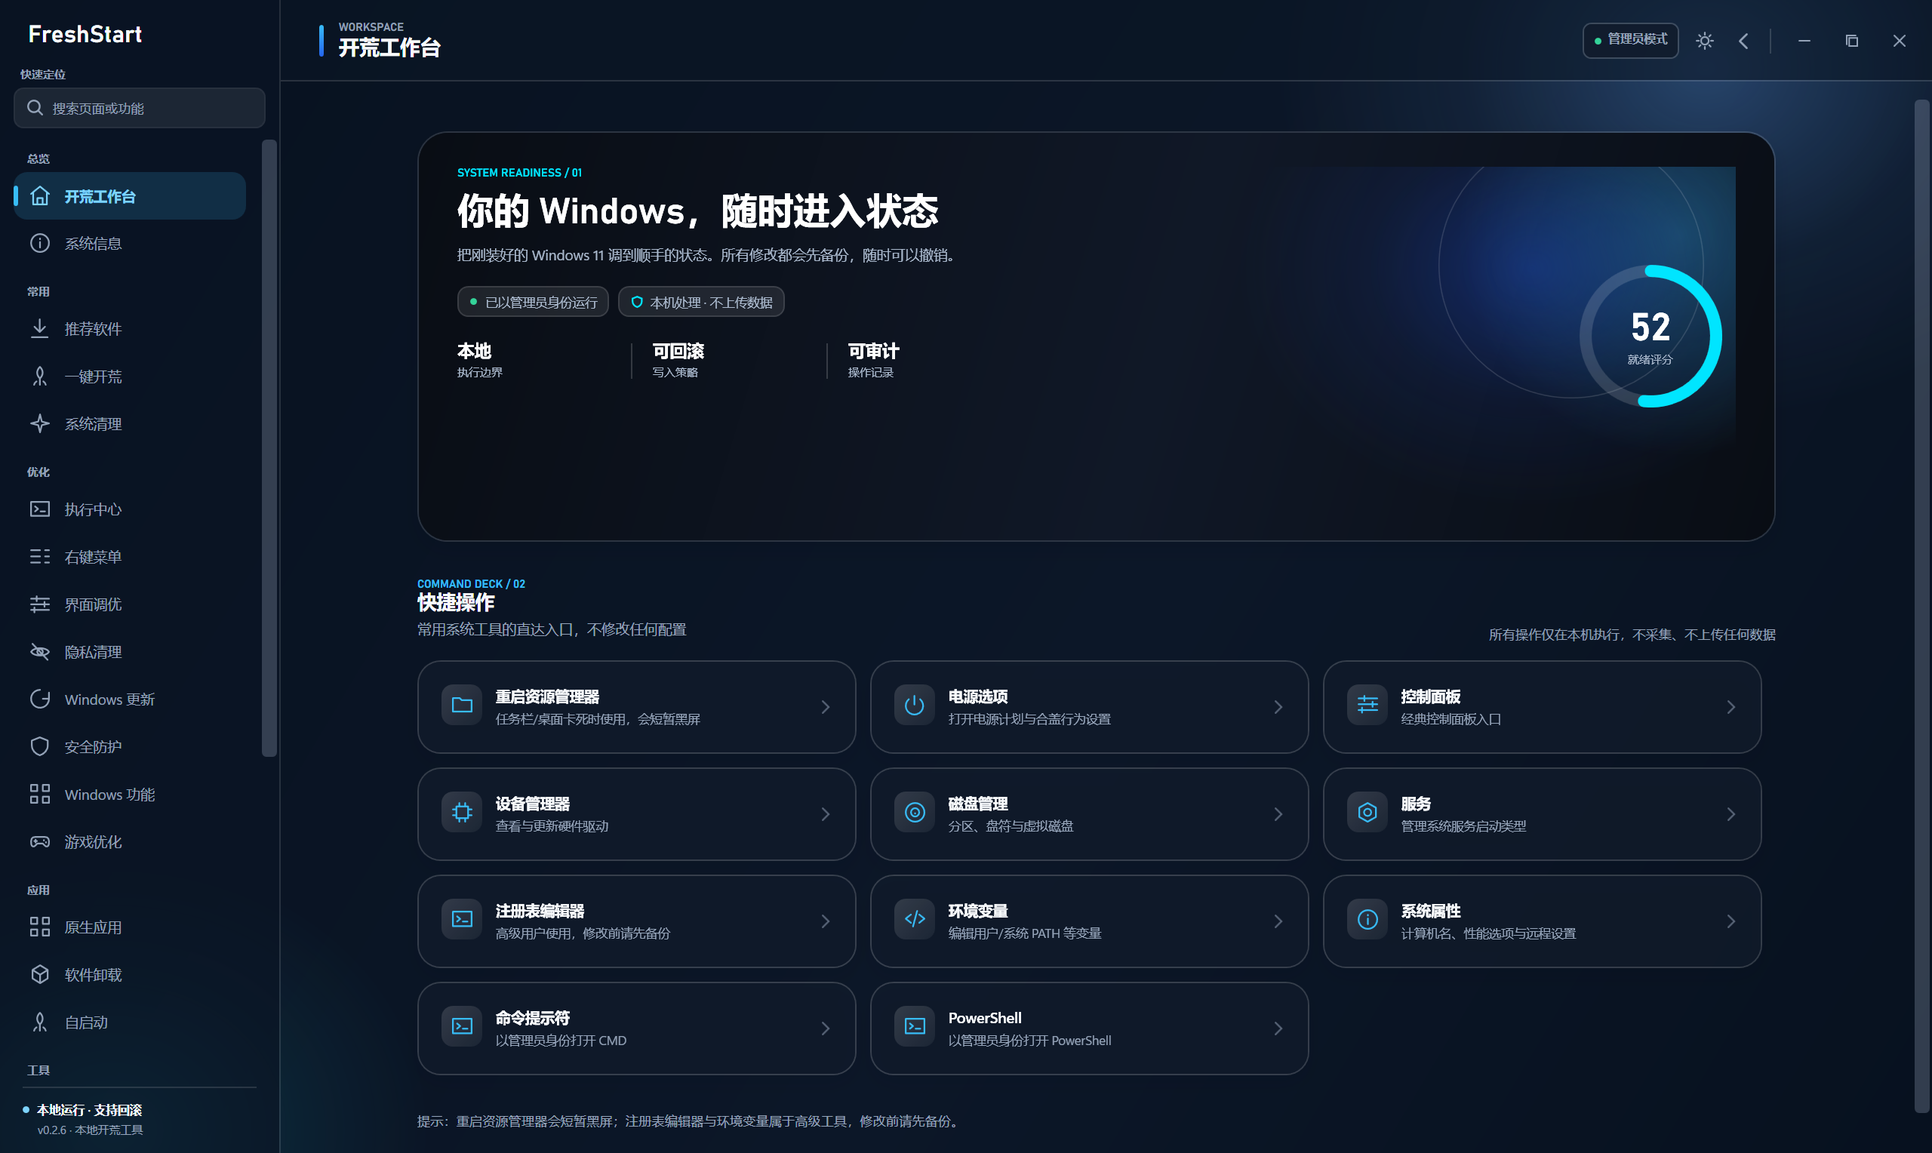
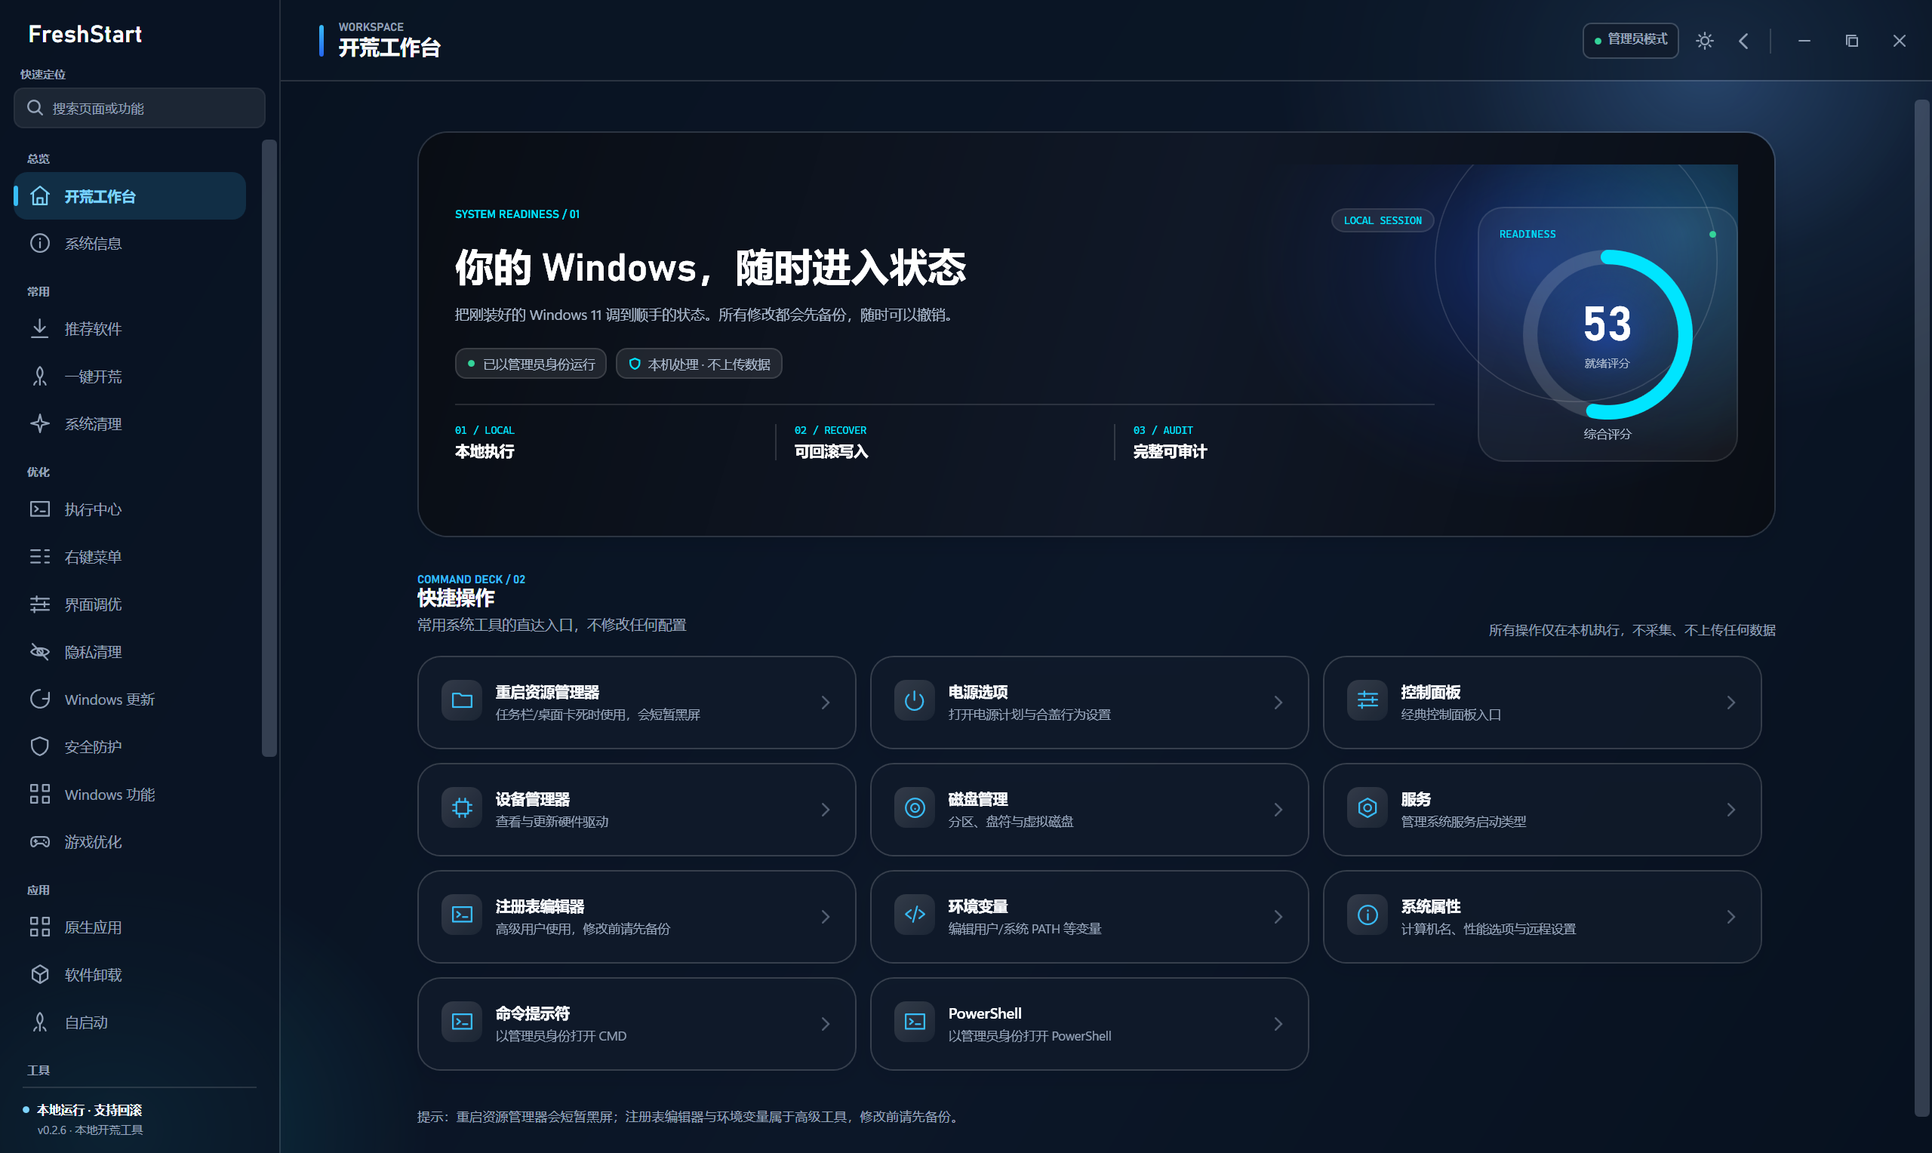
feat: animate readiness score and refine hero layout

diff --git a/src/FreshStart.Modules/QuickActions/QuickActionsPage.xaml b/src/FreshStart.Modules/QuickActions/QuickActionsPage.xaml
@@ -7,14 +7,15 @@
         <StackPanel MaxWidth="1200" HorizontalAlignment="Stretch" Margin="40,30,40,56">
 
             <!-- 欢迎卡片 -->
-            <Border CornerRadius="26" Padding="34,30" Background="{DynamicResource HeroSurfaceBrush}"
+            <Border CornerRadius="26" Padding="32,28" Background="{DynamicResource HeroSurfaceBrush}"
                     BorderBrush="{DynamicResource HeroBorderBrush}" BorderThickness="1"
                     Effect="{StaticResource CardShadowEffect}">
                 <Grid>
                     <Grid.ColumnDefinitions>
-                        <ColumnDefinition Width="*"/>
-                        <ColumnDefinition Width="Auto"/>
+                        <ColumnDefinition Width="*" />
+                        <ColumnDefinition Width="230" />
                     </Grid.ColumnDefinitions>
+
                     <Grid Grid.ColumnSpan="2" ClipToBounds="True" IsHitTestVisible="False">
                         <Ellipse Width="390" Height="390" Fill="{DynamicResource AccentGlowBrush}"
                                  HorizontalAlignment="Right" VerticalAlignment="Center"
@@ -22,43 +23,55 @@
                         <Ellipse Width="520" Height="420" Fill="{DynamicResource HeroBlueGlowBrush}"
                                  HorizontalAlignment="Right" VerticalAlignment="Center"
                                  Margin="0,-120,-80,0" />
-                        <Ellipse Width="235" Height="235" Stroke="#24FFFFFF" StrokeThickness="1"
+                        <Ellipse Width="250" Height="250" Stroke="#24FFFFFF" StrokeThickness="1"
                                  HorizontalAlignment="Right" VerticalAlignment="Center"
-                                 Margin="0,-125,28,0" />
+                                 Margin="0,-130,18,0" />
                     </Grid>
-                    <StackPanel>
-                        <TextBlock Text="SYSTEM READINESS / 01" Style="{StaticResource EyebrowText}"
-                                   Foreground="{DynamicResource HeroAccentBrush}" />
-                        <TextBlock Text="你的 Windows，随时进入状态" FontFamily="{StaticResource DisplayFont}"
-                                   FontSize="32" FontWeight="SemiBold" Margin="0,9,0,0"
-                                   Foreground="{DynamicResource HeroTextBrush}" />
+
+                    <StackPanel Grid.Column="0" Margin="0,0,38,0" VerticalAlignment="Center">
+                        <Grid>
+                            <TextBlock Text="SYSTEM READINESS / 01" Style="{StaticResource EyebrowText}"
+                                       Foreground="{DynamicResource HeroAccentBrush}" />
+                            <Border HorizontalAlignment="Right" CornerRadius="12" Padding="10,4"
+                                    Background="#12FFFFFF" BorderBrush="#26FFFFFF" BorderThickness="1">
+                                <TextBlock Text="LOCAL SESSION" FontFamily="{StaticResource MonoFont}"
+                                           FontSize="9" Foreground="{DynamicResource HeroAccentBrush}" />
+                            </Border>
+                        </Grid>
+
+                        <TextBlock Text="你的 Windows，随时进入状态"
+                                   FontFamily="{StaticResource DisplayFont}" FontSize="34"
+                                   FontWeight="SemiBold" LineHeight="42" TextWrapping="Wrap"
+                                   Margin="0,12,0,0" Foreground="{DynamicResource HeroTextBrush}" />
                         <TextBlock Text="把刚装好的 Windows 11 调到顺手的状态。所有修改都会先备份，随时可以撤销。"
-                                   FontSize="12.5" LineHeight="20" TextWrapping="Wrap" MaxWidth="500"
-                                   HorizontalAlignment="Left"
-                                   Foreground="{DynamicResource HeroMutedTextBrush}" Margin="0,9,0,0"/>
-                        <StackPanel Orientation="Horizontal" Margin="0,16,0,0">
+                                   FontSize="12.5" LineHeight="20" TextWrapping="Wrap" MaxWidth="580"
+                                   HorizontalAlignment="Left" Foreground="{DynamicResource HeroMutedTextBrush}"
+                                   Margin="0,10,0,0" />
+
+                        <StackPanel Orientation="Horizontal" Margin="0,18,0,0">
                             <Border CornerRadius="9" Padding="10,5" Background="#16FFFFFF"
                                     BorderBrush="#32FFFFFF" BorderThickness="1">
                                 <StackPanel Orientation="Horizontal">
                                     <Ellipse Width="6" Height="6" VerticalAlignment="Center"
-                                             Fill="{DynamicResource SuccessBrush}"/>
+                                             Fill="{DynamicResource SuccessBrush}" />
                                     <TextBlock Text="{Binding ElevationText}" FontSize="11" Margin="7,0,0,0"
-                                               Foreground="{DynamicResource HeroMutedTextBrush}"/>
+                                               Foreground="{DynamicResource HeroMutedTextBrush}" />
                                 </StackPanel>
                             </Border>
                             <Border CornerRadius="9" Padding="10,5" Margin="8,0,0,0"
-                                    Background="#16FFFFFF"
-                                    BorderBrush="#32FFFFFF" BorderThickness="1">
+                                    Background="#16FFFFFF" BorderBrush="#32FFFFFF" BorderThickness="1">
                                 <StackPanel Orientation="Horizontal">
                                     <Path Data="{StaticResource ShieldIcon}" Width="11" Height="11"
                                           Stretch="Uniform" Stroke="{DynamicResource HeroAccentBrush}"
                                           StrokeThickness="1.5" VerticalAlignment="Center" />
-                                    <TextBlock Text="本机处理 · 不上传数据" FontSize="11" Margin="7,0,0,0"
-                                               Foreground="{DynamicResource HeroMutedTextBrush}" />
+                                    <TextBlock Text="本机处理 · 不上传数据" FontSize="11"
+                                               Margin="7,0,0,0" Foreground="{DynamicResource HeroMutedTextBrush}" />
                                 </StackPanel>
                             </Border>
                         </StackPanel>
-                        <Grid Width="480" Margin="0,22,0,0" HorizontalAlignment="Left">
+
+                        <Border Height="1" Background="#1FFFFFFF" Margin="0,22,0,17" />
+                        <Grid>
                             <Grid.ColumnDefinitions>
                                 <ColumnDefinition Width="*" />
                                 <ColumnDefinition Width="Auto" />
@@ -67,41 +80,60 @@
                                 <ColumnDefinition Width="*" />
                             </Grid.ColumnDefinitions>
                             <StackPanel>
-                                <TextBlock Text="本地" FontFamily="{StaticResource DisplayFont}" FontSize="15"
-                                           FontWeight="Bold" Foreground="{DynamicResource HeroTextBrush}" />
-                                <TextBlock Text="执行边界" FontSize="10" Margin="0,2,0,0"
-                                           Foreground="{DynamicResource HeroMutedTextBrush}" />
+                                <TextBlock Text="01 / LOCAL" FontFamily="{StaticResource MonoFont}" FontSize="9"
+                                           Foreground="{DynamicResource HeroAccentBrush}" />
+                                <TextBlock Text="本地执行" FontSize="13" FontWeight="SemiBold" Margin="0,4,0,0"
+                                           Foreground="{DynamicResource HeroTextBrush}" />
                             </StackPanel>
-                            <Border Grid.Column="1" Width="1" Background="#2BFFFFFF" Margin="18,1,18,1" />
+                            <Border Grid.Column="1" Width="1" Background="#24FFFFFF" Margin="16,0" />
                             <StackPanel Grid.Column="2">
-                                <TextBlock Text="可回滚" FontFamily="{StaticResource DisplayFont}" FontSize="15"
-                                           FontWeight="Bold" Foreground="{DynamicResource HeroTextBrush}" />
-                                <TextBlock Text="写入策略" FontSize="10" Margin="0,2,0,0"
-                                           Foreground="{DynamicResource HeroMutedTextBrush}" />
+                                <TextBlock Text="02 / RECOVER" FontFamily="{StaticResource MonoFont}" FontSize="9"
+                                           Foreground="{DynamicResource HeroAccentBrush}" />
+                                <TextBlock Text="可回滚写入" FontSize="13" FontWeight="SemiBold" Margin="0,4,0,0"
+                                           Foreground="{DynamicResource HeroTextBrush}" />
                             </StackPanel>
-                            <Border Grid.Column="3" Width="1" Background="#2BFFFFFF" Margin="18,1,18,1" />
+                            <Border Grid.Column="3" Width="1" Background="#24FFFFFF" Margin="16,0" />
                             <StackPanel Grid.Column="4">
-                                <TextBlock Text="可审计" FontFamily="{StaticResource DisplayFont}" FontSize="15"
-                                           FontWeight="Bold" Foreground="{DynamicResource HeroTextBrush}" />
-                                <TextBlock Text="操作记录" FontSize="10" Margin="0,2,0,0"
-                                           Foreground="{DynamicResource HeroMutedTextBrush}" />
+                                <TextBlock Text="03 / AUDIT" FontFamily="{StaticResource MonoFont}" FontSize="9"
+                                           Foreground="{DynamicResource HeroAccentBrush}" />
+                                <TextBlock Text="完整可审计" FontSize="13" FontWeight="SemiBold" Margin="0,4,0,0"
+                                           Foreground="{DynamicResource HeroTextBrush}" />
                             </StackPanel>
                         </Grid>
                     </StackPanel>
-                    <Grid Grid.Column="1" Width="126" Height="126" Margin="22,0,12,0" VerticalAlignment="Center">
-                        <controls:ScoreRing Value="{Binding ScorePercent}"
-                                            Stroke="{DynamicResource HeroAccentBrush}"
-                                            Track="{DynamicResource HeroBorderBrush}" />
-                        <StackPanel VerticalAlignment="Center" HorizontalAlignment="Center">
-                            <TextBlock Text="{Binding ScoreText}" FontFamily="{StaticResource DisplayFont}"
-                                       FontSize="34" FontWeight="Bold"
-                                       Foreground="{DynamicResource HeroTextBrush}"
-                                       HorizontalAlignment="Center" />
-                            <TextBlock Text="就绪评分" FontSize="10" Margin="0,0,0,0"
+
+                    <Border Grid.Column="1" CornerRadius="22" Padding="18,17"
+                            Background="#0CFFFFFF" BorderBrush="#24FFFFFF" BorderThickness="1"
+                            VerticalAlignment="Center">
+                        <StackPanel>
+                            <Grid>
+                                <TextBlock Text="READINESS" FontFamily="{StaticResource MonoFont}" FontSize="9.5"
+                                           Foreground="{DynamicResource HeroAccentBrush}" />
+                                <Ellipse Width="6" Height="6" HorizontalAlignment="Right"
+                                         Fill="{DynamicResource SuccessBrush}" />
+                            </Grid>
+                            <Grid Width="150" Height="150" Margin="0,8,0,0" HorizontalAlignment="Center">
+                                <Ellipse Width="132" Height="132" Fill="{DynamicResource HeroBlueGlowBrush}" />
+                                <controls:ScoreRing x:Name="ReadinessRing" Value="0"
+                                                    Stroke="{DynamicResource HeroAccentBrush}"
+                                                    Track="{DynamicResource HeroBorderBrush}" />
+                                <StackPanel VerticalAlignment="Center" HorizontalAlignment="Center">
+                                    <TextBlock x:Name="ScoreNumber" Text="0"
+                                               AutomationProperties.AutomationId="ReadinessScore"
+                                               FontFamily="{StaticResource DisplayFont}"
+                                               FontSize="42" FontWeight="Bold"
+                                               Foreground="{DynamicResource HeroTextBrush}"
+                                               HorizontalAlignment="Center" />
+                                    <TextBlock Text="就绪评分" FontSize="10"
+                                               Foreground="{DynamicResource HeroMutedTextBrush}"
+                                               HorizontalAlignment="Center" />
+                                </StackPanel>
+                            </Grid>
+                            <TextBlock Text="{Binding ScoreDetail}" FontSize="10.5"
                                        Foreground="{DynamicResource HeroMutedTextBrush}"
-                                       HorizontalAlignment="Center" />
+                                       HorizontalAlignment="Center" Margin="0,5,0,0" />
                         </StackPanel>
-                    </Grid>
+                    </Border>
                 </Grid>
             </Border>
 

diff --git a/src/FreshStart.Modules/QuickActions/QuickActionsPage.xaml.cs b/src/FreshStart.Modules/QuickActions/QuickActionsPage.xaml.cs
@@ -1,15 +1,88 @@
+using System.Diagnostics;
+using System.Windows;
 using System.Windows.Controls;
+using System.Windows.Media.Animation;
+using FreshStart.Core;
+using FreshStart.Core.UI;
+using FreshStart.Modules.Controls;
 
 namespace FreshStart.Modules.QuickActions;
 
 public partial class QuickActionsPage
 {
+    private CancellationTokenSource? _scoreAnimationCts;
+
     public QuickActionsPage()
     {
         InitializeComponent();
-        Loaded += (_, _) =>
+        Loaded += OnLoaded;
+        Unloaded += OnUnloaded;
+    }
+
+    private async void OnLoaded(object sender, RoutedEventArgs e)
+    {
+        if (DataContext is not QuickActionsViewModel vm) return;
+
+        _scoreAnimationCts?.Cancel();
+        _scoreAnimationCts?.Dispose();
+        var cts = new CancellationTokenSource();
+        _scoreAnimationCts = cts;
+
+        ReadinessRing.BeginAnimation(ScoreRing.ValueProperty, null);
+        ReadinessRing.Value = 0;
+        ScoreNumber.Text = "0";
+
+        await vm.LoadScoreAsync();
+        if (cts.IsCancellationRequested || !IsLoaded) return;
+
+        await AnimateScoreAsync(vm.ScorePercent, cts.Token);
+    }
+
+    private void OnUnloaded(object sender, RoutedEventArgs e)
+    {
+        _scoreAnimationCts?.Cancel();
+        _scoreAnimationCts?.Dispose();
+        _scoreAnimationCts = null;
+    }
+
+    private async Task AnimateScoreAsync(double target, CancellationToken ct)
+    {
+        var safeTarget = Math.Clamp(target, 0, 100);
+        var duration = MotionPreferences.Duration(950);
+        if (duration <= TimeSpan.Zero)
         {
-            if (DataContext is QuickActionsViewModel vm) _ = vm.LoadScoreAsync();
+            ReadinessRing.Value = safeTarget;
+            ScoreNumber.Text = $"{safeTarget:0}";
+            return;
+        }
+
+        var easing = new CubicEase { EasingMode = EasingMode.EaseOut };
+        Log.Info($"首页评分动画开始: 0 → {safeTarget:0}");
+        var ringAnimation = new DoubleAnimation(0, safeTarget, new Duration(duration))
+        {
+            EasingFunction = easing
         };
+        ReadinessRing.BeginAnimation(ScoreRing.ValueProperty, ringAnimation);
+
+        var stopwatch = Stopwatch.StartNew();
+        try
+        {
+            while (stopwatch.Elapsed < duration)
+            {
+                var progress = Math.Clamp(stopwatch.Elapsed.TotalMilliseconds / duration.TotalMilliseconds, 0, 1);
+                var eased = 1 - Math.Pow(1 - progress, 3);
+                ScoreNumber.Text = $"{safeTarget * eased:0}";
+                await Task.Delay(16, ct);
+            }
+
+            ReadinessRing.BeginAnimation(ScoreRing.ValueProperty, null);
+            ReadinessRing.Value = safeTarget;
+            ScoreNumber.Text = $"{safeTarget:0}";
+            Log.Info($"首页评分动画完成: {safeTarget:0}");
+        }
+        catch (OperationCanceledException)
+        {
+            // 离开页面时停止动画，下一次进入会重新从 0 开始。
+        }
     }
 }

diff --git a/docs/PROJECT-NOTES.md b/docs/PROJECT-NOTES.md
@@ -60,6 +60,8 @@
 
 > 0.2.3：主界面收敛为黑白单色体系，纸白侧栏左上角只保留黑色 `FreshStart` 字标。启动动画按三段严格串行校准：描边 400ms 淡入、填充 2000ms 左向右扫过；缓冲 200ms 后由右向左执行 750ms 黑白反转并停留 250ms。随后黑字缩放移动到左上角与主字标重合，白底以 400ms 淡出，主界面保持完整并自然显露。阶段 C 不使用旋转、缩放或透明度退场。
 
+> 0.2.7：重排开荒工作台 Banner 为左侧信息层级与右侧独立评分仪表卡结构；每次进入页面时，评分数字与圆环都从 0 同步缓动至实际分数。
+
 > 0.2.6：主界面改为冷调极光视觉，采用冷灰蓝背景、半透明侧栏、科技蓝选中态、深色 Banner 光晕和高光卡片；开关改为语义化双色状态，关闭为红色、开启为绿色。
 
 > 0.2.5：恢复页面正文的主题前景色，修复深色模式中的黑字问题；按钮内容统一继承按钮自身前景色，并为侧栏选中项补充悬停组合状态，避免白字落入浅灰背景。

diff --git a/docs/OVERVIEW.md b/docs/OVERVIEW.md
@@ -1,6 +1,6 @@
 # FreshStart · 当前功能 / 实现链路 / 架构 / 技术路线
 
-版本 **0.2.6**（环境克隆实验版）；5 个工程、4 层、25 个导航页面、24 种执行步骤类型、26 项注册表调优 + 4 套预设、8 个推荐软件、41 个内置原生应用条目、冷调极光界面、1 段首次启动品牌动画、3 张可设为系统壁纸的内置图。
+版本 **0.2.7**（环境克隆实验版）；5 个工程、4 层、25 个导航页面、24 种执行步骤类型、26 项注册表调优 + 4 套预设、8 个推荐软件、41 个内置原生应用条目、冷调极光界面、1 段首次启动品牌动画、3 张可设为系统壁纸的内置图。
 
 ---
 

diff --git a/CHANGELOG.md b/CHANGELOG.md
@@ -3,6 +3,18 @@
 本项目从公开版本 `0.1.0` 开始遵循语义化版本。此前的 `0.35.x` 是内部开发编号，
 不代表曾经发布过 35 个公开版本。
 
+## [0.2.7] - 2026-11-07
+
+### Changed
+
+- 重新设计开荒工作台 Banner：左侧集中标题、运行状态和执行原则，右侧使用独立的
+  评分仪表卡，收紧信息层级并减少无意义留白。
+
+### Added
+
+- 每次进入开荒工作台时，就绪评分的数字与圆环都会从 0 同步增长至实际分数；关闭
+  界面动效时直接显示最终值。
+
 ## [0.2.6] - 2026-11-07
 
 ### Changed

diff --git a/README.md b/README.md
@@ -4,7 +4,7 @@
 
 FreshStart 是一个本地优先的 Windows 11 桌面工具，集中处理系统信息、常用设置、隐私、软件、服务、备份与自动化工作流。除明确标注为不可回滚的项目外，写操作遵循“读取当前值 → 备份 → 写入 → 校验 → 失败回滚”的流程。
 
-**当前版本：0.2.6** · Windows 11 · .NET 8 · WPF
+**当前版本：0.2.7** · Windows 11 · .NET 8 · WPF
 
 ![FreshStart 首页浅色主题](docs/images/home-light.png)
 

diff --git a/docs/FEATURES.md b/docs/FEATURES.md
@@ -1,4 +1,4 @@
-# FreshStart 功能清单（v0.2.6）
+# FreshStart 功能清单（v0.2.7）
 
 Windows 11 开荒工具。除明确标注「不可回滚」的卸载/移除类操作外，写操作先备份、失败自动回滚、可撤销；不采集、不上传任何数据。
 
